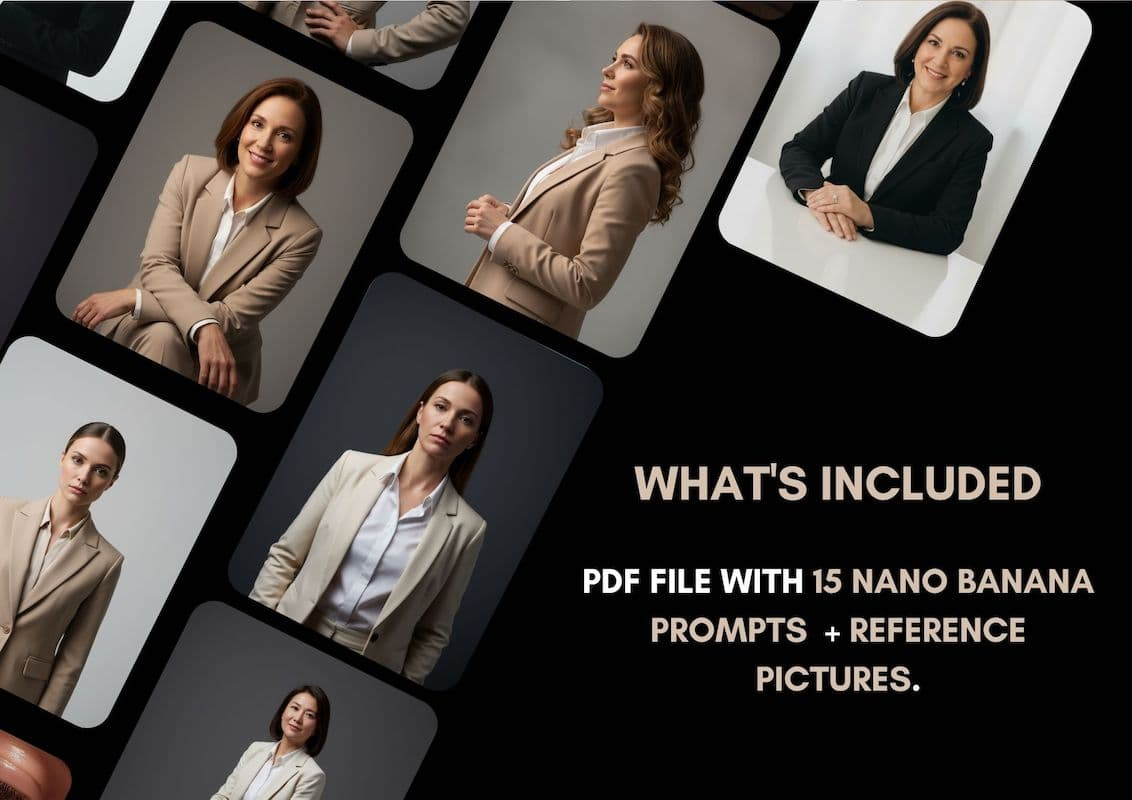
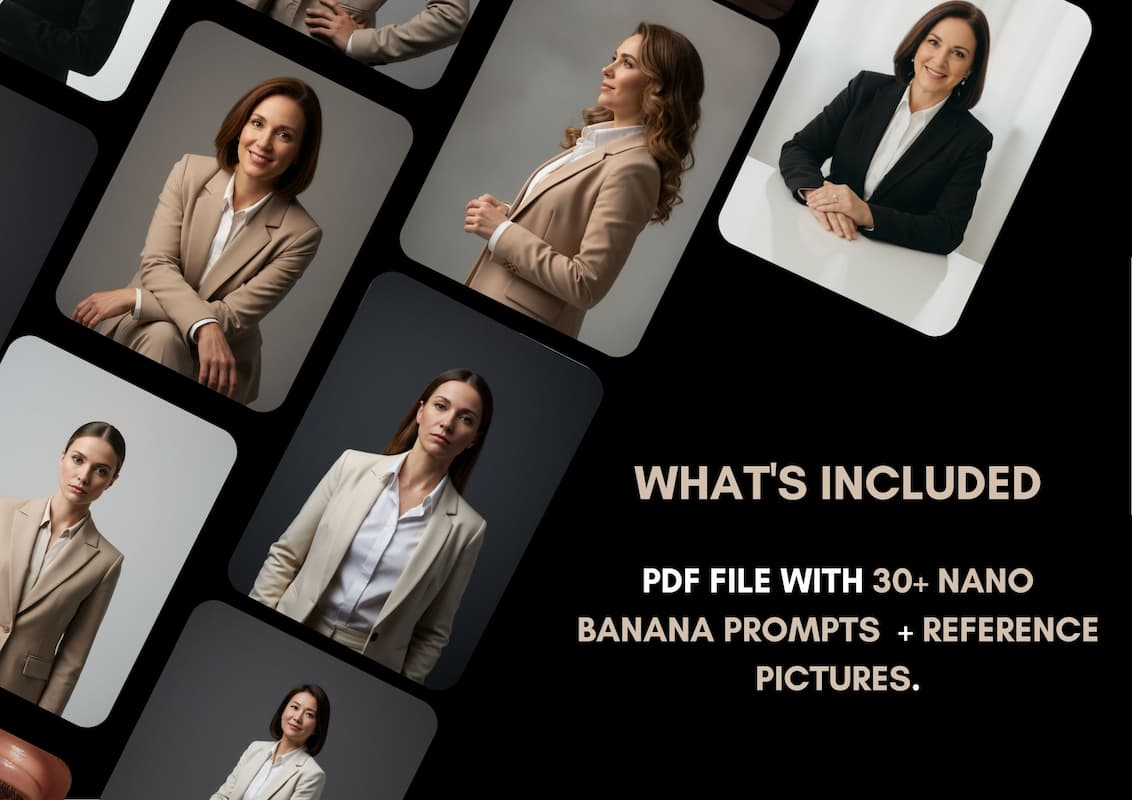
Update number

diff --git a/src/content/promptbooks/index.ts b/src/content/promptbooks/index.ts
@@ -169,7 +169,7 @@ export const PROMTBOOKS: Record<string, PromptBookRaw> = {
 
   "women-headshot-prompts-professional": {
     id: 15,
-    gumroadSlug: "15-ai-women-headshot-prompts",
+    gumroadSlug: "ai-women-headshot-prompts",
     boostyId: "7fe0af5d-fcba-4346-8e65-39963eb91e60",
     number: 30,
     isGrowing: true,
